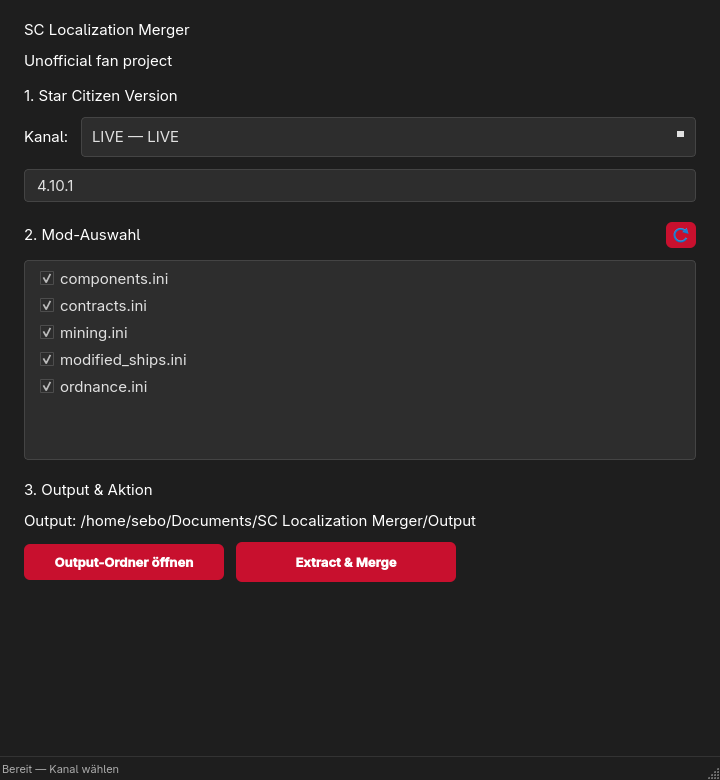
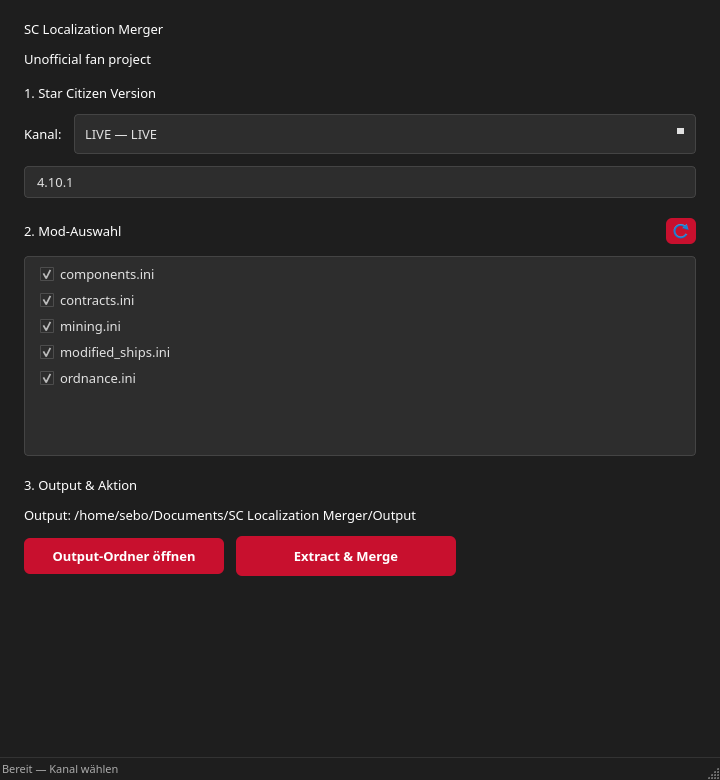
Konsistente Schriftfamilie ueber Builds (Windows Segoe UI, Linux Noto Sans/DejaVu)

diff --git a/main_gui.py b/main_gui.py
@@ -948,9 +948,40 @@ def create_app():
     Kann direkt aufgerufen werden (z. B. von einem Test) oder via __main__.
     """
     _ensure_qapp()
+    _apply_consistent_font()
     win = MainWindow()
     win.show()
     return win
+
+
+def _apply_consistent_font() -> None:
+    """Einheitliche Schriftfamilie über alle Builds (Win + Linux).
+
+    Ohne explizite font-family nimmt Qt die System-Standardfont, die je nach
+    Plattform/Build unterschiedlich ist (Linux: Adwaita/Noto, Windows: Segoe UI,
+    GitHub-Runner ggf. abweichend). Das setzt eine feste Familie + Größe, damit
+    beide GitHub-Builds identisch aussehen.
+
+    Hinweis: 'font-family' in Qt-Stylesheets unterstützt KEINE Fallback-Listen,
+    daher wird die Familie hier programmatisch per OS aufgelöst.
+    """
+    from PySide6.QtGui import QFont, QFontDatabase
+    from PySide6.QtWidgets import QApplication as _QAppCls
+    app = QApplication.instance()
+    if app is None:
+        return
+    available = set(QFontDatabase.families())
+    if sys.platform == "win32":
+        family = "Segoe UI" if "Segoe UI" in available else "Tahoma"
+    else:
+        for cand in ("Noto Sans", "DejaVu Sans", "Liberation Sans"):
+            if cand in available:
+                family = cand
+                break
+        else:
+            family = app.font().family()
+    f = QFont(family, 10)  # ~13px, konsistent über beide OS
+    _QAppCls.setFont(f)  # statisch; app ist ein QApplication-Instanz
 
 
 if __name__ == "__main__":
